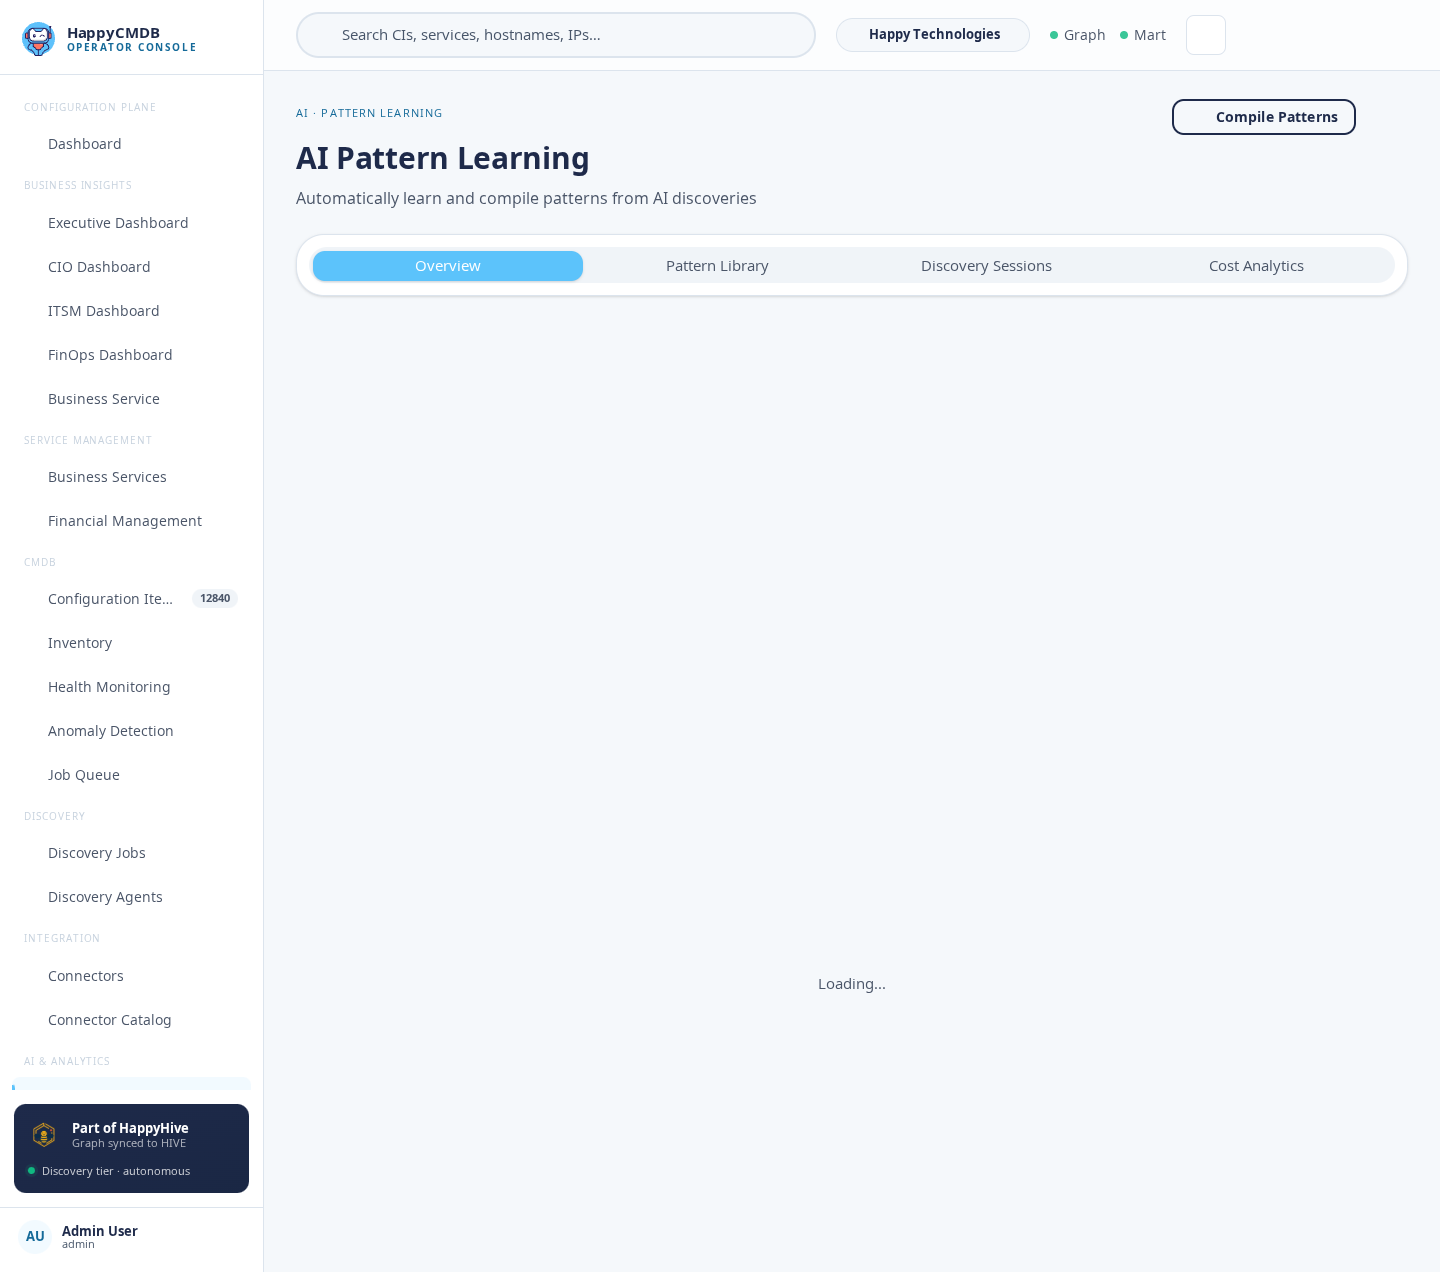
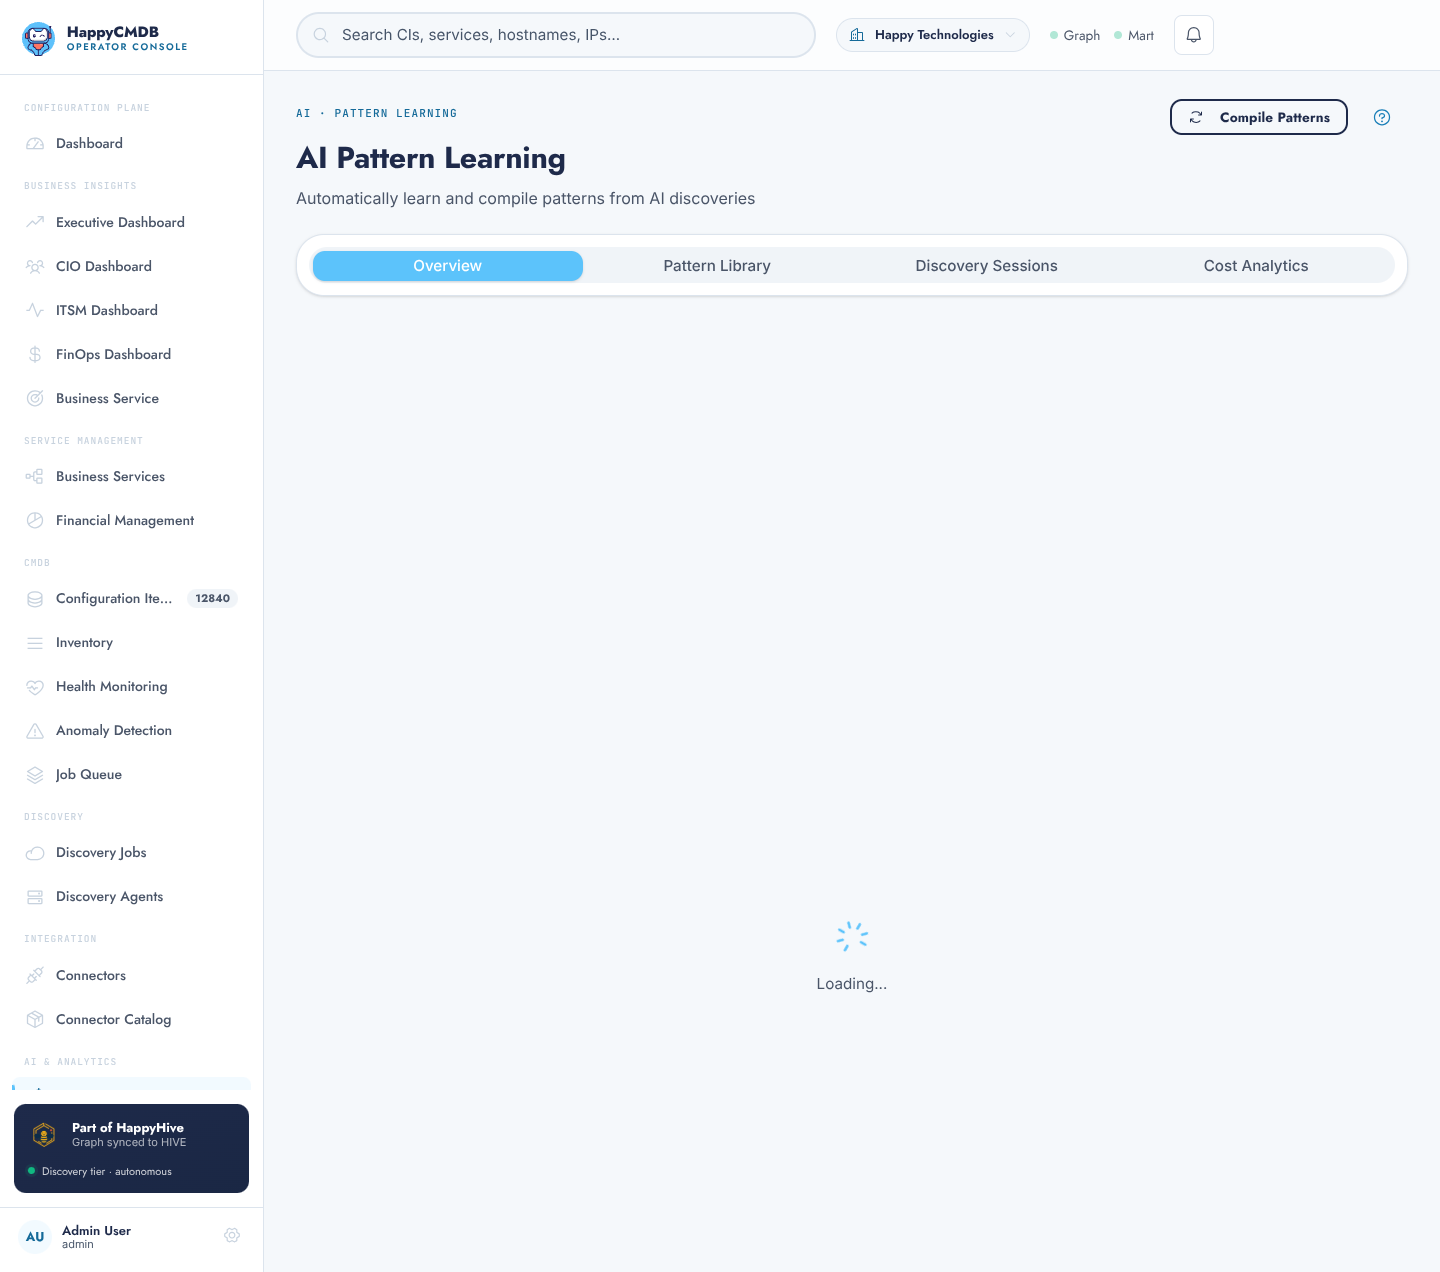
HAP-1252 S1a fix: review M1 baseline re-capture, L1 dark foregrounds, rail/search/email nits
M1: docs/ux/before/*.png re-captured from 7ccc5a52 by a script that waits for each
screen's own heading and for the webfonts. 23-settings.png was a Suspense frame.
L1: dark block restates text-primary-foreground / text-destructive-foreground as
--hh-on-solid. Rail: only a plain left click is routed in place. Search: explicit
aria-label. Account menu: shows the signed-in email again.

diff --git a/web-ui/src/components/layout/MainLayout.test.tsx b/web-ui/src/components/layout/MainLayout.test.tsx
@@ -3,7 +3,7 @@
 
 import { beforeEach, describe, expect, it, vi } from 'vitest';
 import { QueryClient, QueryClientProvider } from '@tanstack/react-query';
-import { cleanup, render, screen, within } from '@testing-library/react';
+import { cleanup, fireEvent, render, screen, within } from '@testing-library/react';
 import userEvent from '@testing-library/user-event';
 import { MemoryRouter, Route, Routes, useLocation } from 'react-router-dom';
 import { ThemeProvider } from '@/contexts/ThemeContext';
@@ -100,12 +100,32 @@ describe('shell rail', () => {
     expect(screen.getByTestId('where')).toHaveTextContent('/agents');
     expect(screen.getByText('Agents screen')).toBeInTheDocument();
   });
+
+  it.each([
+    ['Ctrl held', { ctrlKey: true }],
+    ['Cmd held', { metaKey: true }],
+    ['Shift held', { shiftKey: true }],
+    ['Alt held', { altKey: true }],
+    ['a non-primary button', { button: 1 }],
+  ])('leaves a click with %s to the browser (open in a new tab) instead of routing in place', (_label, init) => {
+    renderShell('/');
+    const link = within(rail()).getByRole('link', { name: /^discovery/i });
+    // fireEvent returns false when a handler called preventDefault: the browser would then not open the link.
+    expect(fireEvent.click(link, init)).toBe(true);
+    expect(screen.getByTestId('where')).toHaveTextContent(/^\/$/);
+    expect(link).toHaveAttribute('href', '/discovery');
+  });
 });
 
 describe('shell topbar', () => {
   it('greets the signed-in user by first name', () => {
     renderShell('/');
     expect(screen.getByText(/^Good (morning|afternoon|evening), Ada$/)).toBeInTheDocument();
+  });
+
+  it('names the search box for assistive tech', () => {
+    renderShell('/');
+    expect(screen.getByRole('searchbox', { name: 'Search CIs, services, hostnames, IPs' })).toBeInTheDocument();
   });
 
   it('Enter in search opens the CI list filtered by the text; empty search opens the plain list', async () => {
@@ -129,6 +149,14 @@ describe('account menu', () => {
     renderShell('/');
     await open(user);
     expect(await screen.findByText('Ada Lovelace · operator')).toBeInTheDocument();
+  });
+
+  it('shows the signed-in email under the name, as the old sidebar menu did', async () => {
+    const user = userEvent.setup();
+    auth.user = { username: 'ada', full_name: 'Ada Lovelace', role: 'operator', email: 'ada@example.com' };
+    renderShell('/');
+    await open(user);
+    expect(await screen.findByText('ada@example.com')).toBeInTheDocument();
   });
 
   it('Profile and Settings navigate to the settings screen', async () => {

diff --git a/web-ui/src/index.css b/web-ui/src/index.css
@@ -139,10 +139,12 @@
    The DS scopes dark tokens under .hh-theme[data-theme='dark']. The
    legacy light-only variables above are static :root values, so each
    one that carries a surface, border or text role is re-pointed at its
-   --hh-* equivalent here. --primary and the other brand fills stay as
-   they are (they paint navy blocks that keep white text). Each rule
-   goes when the screens using that legacy class move onto DS components
-   (UX-4b S2-S8).
+   --hh-* equivalent here. --white therefore becomes the dark surface, and
+   text-primary-foreground / text-destructive-foreground read --white at
+   the element (@theme inline), so they are restated below as the DS
+   --hh-on-solid white. --primary and the other brand fills stay as they
+   are. Each rule goes when the screens using that legacy class move onto
+   DS components (UX-4b S2-S8).
    ============================================================ */
 .hh-theme[data-theme='dark'] {
   --white: var(--hh-bg-surface);
@@ -178,4 +180,8 @@
 .hh-theme[data-theme='dark'] .text-navy,
 .hh-theme[data-theme='dark'] .text-secondary-foreground {
   color: var(--hh-text-primary);
+}
+.hh-theme[data-theme='dark'] .text-primary-foreground,
+.hh-theme[data-theme='dark'] .text-destructive-foreground {
+  color: var(--hh-on-solid);
 }

diff --git a/web-ui/src/components/layout/AppRail.tsx b/web-ui/src/components/layout/AppRail.tsx
@@ -1,11 +1,16 @@
 // Copyright 2026 Happy Technologies LLC
 // SPDX-License-Identifier: Apache-2.0
 
+import type { MouseEvent } from 'react';
 import { useLocation, useNavigate } from 'react-router-dom';
 import { useQuery } from '@tanstack/react-query';
 import { Icon, ProductLockup, Sidebar, SidebarNavItem, SidebarSection } from '@happy-technologies/design-system';
 import ciService from '@services/ci.service';
 import { NAV_SECTIONS, matchNav } from './navigation';
+
+/** A plain left click is ours to route; a modified or non-primary click is the browser's (new tab, new window, download). */
+const isPlainLeftClick = (event: MouseEvent) =>
+  event.button === 0 && !event.ctrlKey && !event.metaKey && !event.shiftKey && !event.altKey;
 
 /** The DS icon rail (MF1, MF2): product lockup, "Workspace", one item per section in freeze order. */
 export function AppRail() {
@@ -41,6 +46,7 @@ export function AppRail() {
             active={section.id === activeId}
             count={section.id === 'cis' ? stats?.total_cis : undefined}
             onClick={(event) => {
+              if (!isPlainLeftClick(event)) return;
               event.preventDefault();
               navigate(section.items[0]!.path);
             }}

diff --git a/web-ui/src/components/layout/AccountMenu.tsx b/web-ui/src/components/layout/AccountMenu.tsx
@@ -15,6 +15,7 @@ export function AccountMenu() {
 
   const items: MenuItem[] = [
     { label: `${name} · ${user?.role ?? 'unknown role'}`, icon: 'user-circle', disabled: true },
+    ...(user?.email ? [{ label: user.email, icon: 'envelope-simple', disabled: true }] : []),
     { label: 'Profile', icon: 'user', onClick: () => navigate('/settings?tab=profile') },
     { label: 'Settings', icon: 'gear-six', onClick: () => navigate('/settings') },
     {

diff --git a/web-ui/src/components/layout/AppTopbar.tsx b/web-ui/src/components/layout/AppTopbar.tsx
@@ -42,6 +42,7 @@ export function AppTopbar({ navOpen, onToggleNav }: { navOpen: boolean; onToggle
         onChange={setQuery}
         onKeyDown={search}
         placeholder="Search CIs, services, hostnames, IPs"
+        aria-label="Search CIs, services, hostnames, IPs"
         className="mx-auto hidden w-[min(420px,36cqi)] sm:block"
       />
       <div className="ml-auto flex items-center gap-4 sm:ml-0">

diff --git a/docs/ux/before/README.md b/docs/ux/before/README.md
@@ -32,8 +32,9 @@ Target per N10: 80% by end of S8. CI prints the number on every run (job summary
 ## Screenshots
 
 `*.png` here, 1440 px wide, light (`prefers-color-scheme: light`), Vite dev server, headless Chromium.
-**Re-captured in S1 (review finding L5).** The first S0 set used full-page capture, which mishandles fixed-position elements (the old sidebar background stopped at 900 px). Every shot is now taken by loading the route at 1440x900, measuring the document height, resizing the viewport to that height (900 to 5000 px) and taking a normal screenshot, so fixed and sticky parts span the whole page. `docs/ux/after-s1/` uses the identical method, so before and after compare one to one. Code: `origin/main` @ `7ccc5a52` (S0 merged), a worktree of it, not the S1 branch. Observed, cause not investigated: body text in these shots renders in a different sans face than in `after-s1`; layout is unaffected.
-**No backend was available**, so the API is stubbed at the network layer (`/api/v1/**` fulfilled with fixtures; session restored from a stubbed `/auth/refresh` + `/auth/me`, user "Admin User"; `00-login` answers `/auth/refresh` with 401). Screens with a fixture show data (dashboard, CIs, CI detail, inventory, executive); the others render their real empty state. Numbers and names are invented and are the same fixtures as in `after-s1`. The point of the set is layout, typography and component look, not data.
+**Re-captured in S1 (review finding L5) and again in the S1 fix (review M1).** The first S0 set used full-page capture, which mishandles fixed-position elements (the old sidebar background stopped at 900 px). Every shot is now taken by loading the route at 1440x900, measuring the document height, resizing the viewport to that height (900 to 5000 px) and taking a normal screenshot, so fixed and sticky parts span the whole page. `docs/ux/after-s1/` uses the same method, so before and after compare one to one. Code: `origin/main` @ `7ccc5a52` (S0 merged), an export of that commit (not the S1 branch) served by `vite`.
+**Why the set was re-captured (S1 fix, review M1).** `23-settings.png` in the S1 set was the app-level Suspense "Loading..." frame (7,108 B), not the Settings screen, because the capture slept a fixed time instead of waiting for the lazy chunk. Two other shots of that set that were compared (`02-cis`, `15-ai-patterns`) also showed fallback text and no icon glyphs: the DS webfonts (Inter, Jost, the Phosphor icon font) were not loaded when the screenshot was taken; cause not established. The capture now waits for the screen's own `h1`/`h2` (30 s, then fails), then for `document.fonts.ready`, and fails if any font face errored or the Phosphor face did not load. All 24 files in this folder come from one run of that script.
+**No backend was available**, so the API is stubbed at the network layer (`/api/v1/**` fulfilled with fixtures; session restored from a stubbed `/auth/refresh` + `/auth/me`, user "Admin User"; `00-login` answers `/auth/refresh` with 401). Screens with a fixture show data (dashboard, CIs, CI detail, inventory, executive); the others show what the screen renders for an empty `data: []` answer (an empty list, its own "unavailable" message such as `18-dash-itsm`, or its own "Loading..." text such as `15-ai-patterns`) inside the old shell. Numbers and names are invented and are the same fixtures as in `after-s1`. The point of the set is layout, typography and component look, not data.
 
 | File | Route |
 |---|---|
@@ -62,4 +63,4 @@ Target per N10: 80% by end of S8. CI prints the number on every run (job summary
 | `22-financial-management.png` | `/financial-management` |
 | `23-settings.png` | `/settings` |
 
-The 24 routes are every route in `web-ui/src/App.tsx` except the `*` redirect. The dev server served the DS fonts and CSS with no 403/404 after the sibling-checkout `server.fs.allow` entry was removed.
+The 24 routes are every route in `web-ui/src/App.tsx` except the `*` redirect. The dev server logged no "outside of Vite serving allow list" line for the DS fonts during the run.

diff --git a/docs/ux/after-s1/README.md b/docs/ux/after-s1/README.md
@@ -44,3 +44,5 @@ The old Business Insights, Service Management, Integration, AI & Analytics and A
 ## Dark theme
 
 `HappyTheme` renders the DS dark tokens. Legacy utility classes that the not-yet-migrated screens still use (`text-gray-*`, `bg-white`, `divide-*`, navy text) are remapped in one block of `web-ui/src/index.css` under the dark selector, using tokens only (no raw hex). Each rule is to be deleted as the S2-S8 screens move to DS components. Check: the share of near-white pixels (all channels above 200) in each dark shot is 0.2-0.6% on the 23 signed-in routes, i.e. text and icons only, no light surface left. `00-login-dark` is 2.6%: the unmigrated login keeps its white username field until S1b. Charts on the dashboards use their own series colours and are unchanged.
+
+`--white` is re-pointed at the dark surface, and `text-primary-foreground` / `text-destructive-foreground` read it at the element (`@theme inline` in `index.css`), so they would turn dark on the sky and red fills. The dark block therefore restates both as the DS `--hh-on-solid` (white in every theme). `fix-dark-primary-destructive.png` is the dark theme with the exact class strings of `ConnectorDashboard.tsx` (primary) and `DiscoveryDefinitionCard.tsx` (destructive) on the live Vite build: computed text colour `rgb(255, 255, 255)` on both fills. Without the rule it is `rgb(15, 23, 48)`.

diff --git a/doc-site/docs/components/web-ui.md b/doc-site/docs/components/web-ui.md
@@ -106,7 +106,7 @@ React hooks for data fetching and business logic:
 // MainLayout is the single layout route: ProtectedRoute > MainLayout > screen
 import MainLayout from '@/components/layout/MainLayout';
 ```
-**Features**: DS icon rail (`AppRail`, items and section tabs from `navigation.ts`), topbar with greeting, CI search and account menu (`AppTopbar`, `AccountMenu`), per-section tab strip (`SectionNav`). Each rail item opens its section's first screen; the section's other screens are tabs. Add a route by adding it to `navigation.ts` (the rail, the tabs and the active-state test read that one table).
+**Features**: DS icon rail (`AppRail`, items and section tabs from `navigation.ts`), topbar with greeting, CI search and account menu (`AppTopbar`, `AccountMenu`: name and role, the signed-in `email`, Profile, Settings, theme, Sign out), per-section tab strip (`SectionNav`). Each rail item opens its section's first screen; the section's other screens are tabs. A plain left click routes in place; a Ctrl, Cmd, Shift or Alt click, or a non-primary button, is left to the browser so a rail item opens in a new tab (`isPlainLeftClick` in `AppRail.tsx`). Add a route by adding it to `navigation.ts` (the rail, the tabs and the active-state test read that one table).
 
 ### Theme (`contexts/ThemeContext.tsx`)
 ```typescript
